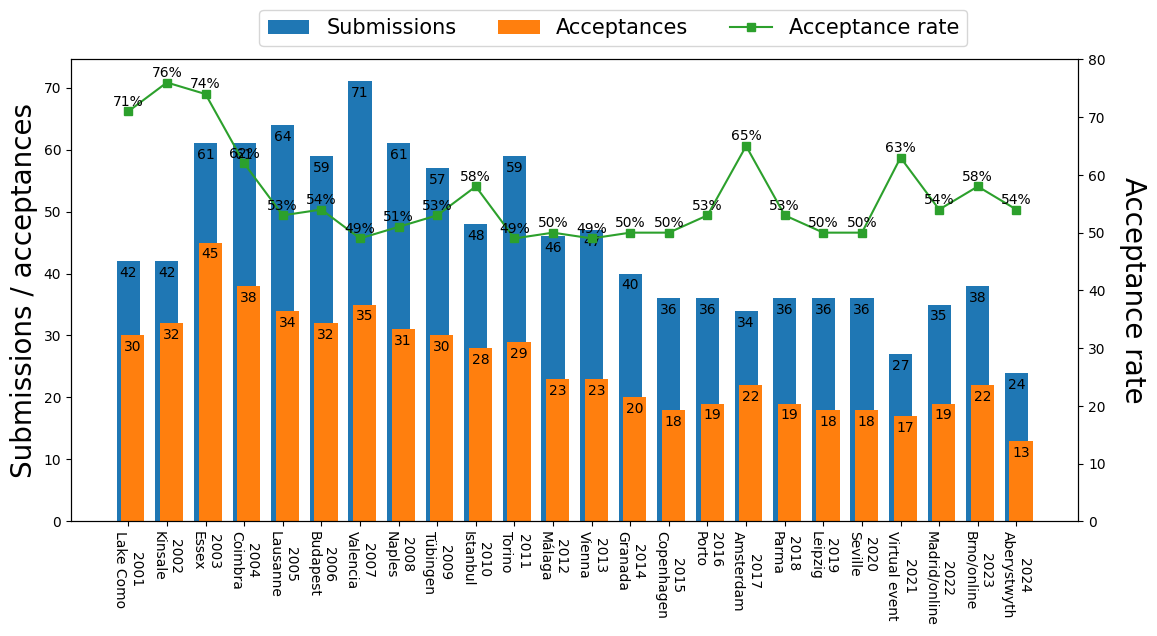
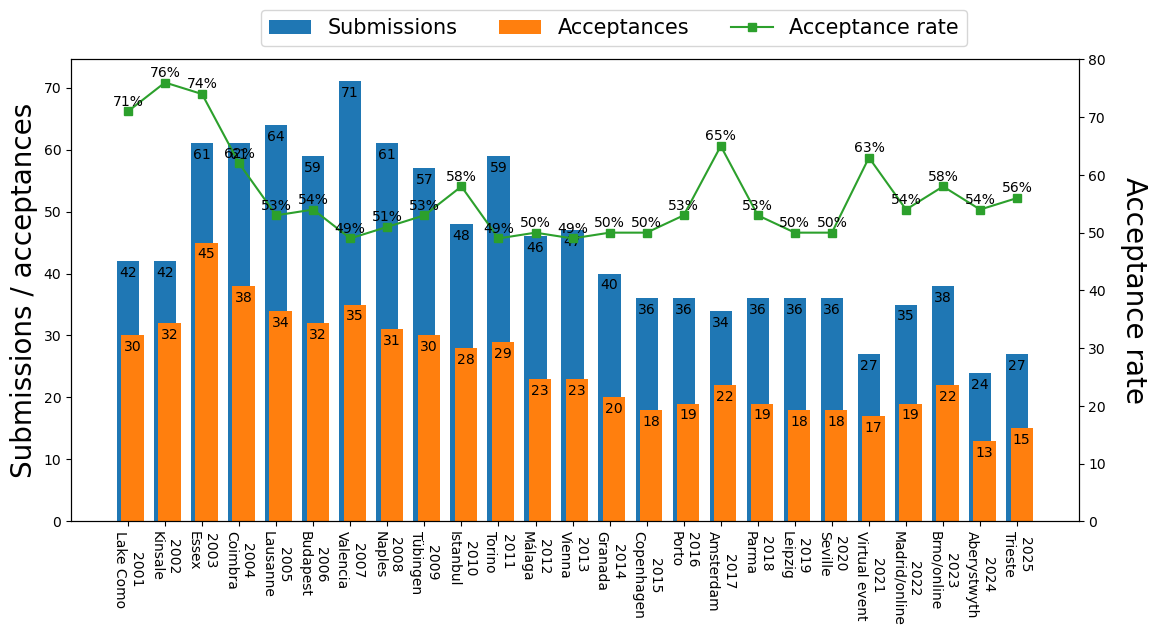
update stats for evostar

diff --git a/index.md b/index.md
@@ -18,22 +18,19 @@ This web site provides statistics of acceptance rates of the main evolutionary c
     * [EvoMUSART: International Conference on Artificial Intelligence in Music, Sound, Art and Design](#evomusart)
     * [EvoApplications: International Conference on the Applications of Evolutionary Computation](#evoapp)
 
-
-
-
 ## <a id="nextconf" href="#nextconf">Upcoming conferences</a> 
 
 The date format in the following table is ``Year.Month.Day``. The submission deadline for each conference is based on its first CFP. 
 
 |  Conference  | Venue | Start date | End date | Abstract submission | Paper submission |
 | ---- | ---- | ---- | ---- | ---- | ---- |
-| [Evostar 2025](https://www.evostar.org/2025/) | Trieste, Italy | 2025.04.23 | 2025.04.25 |   | 2024.11.01 |
 | [CEC 2025](https://www.cec2025.org/) | Hangzhou,China | 2025.07.08 | 2025.07.12 |  |2025.01.15|
 | [GECCO 2025](https://gecco-2025.sigevo.org/) | Málaga, Spain | 2025.07.14 | 2025.07.18 | 2025.01.22  | 2025.01.29 |
 | [FOGA 2025](https://naco.liacs.nl/foga2025/) | Leiden, Netherlands | 2025.08.27 | 2025.08.29 |   | 2025.05.01 |
+| Evostar 2026 | Somewhere in Europe | 2026.04.?? | 2026.04.?? |   | 2025.1?.?? |
+| [WCCI 2026](https://attend.ieee.org/wcci-2026/) | Maastricht, Netherlands | 2026.06.21 | 2026.06.26 |  |2026.01.??|
 | PPSN 2026 | Somewhere in Europe | 2026.09.?? | 2026.09.?? |   | 2026.0?.?? |
 | EMO 2027 | Somewhere in this world | 2027.03.?? | 2027.03.?? |   | 2026.??.?? |
-
 
 ## <a id="coreranks" href="#coreranks">CORE2021 rankings</a> 
 
@@ -273,6 +270,7 @@ EuroGP is held as part of EvoStar, which consists of EuroGP, EvoApplications, Ev
 | 2022 | 35         | 19         | 54%             | Madrid/online    | 
 | 2023 | 38         | 22         | 58%             | Brno/online    | 
 | 2024 | 24         | 13         | 54%             | Aberystwyth    | 
+| 2025 | 27         | 15         | 56%             | Trieste    | 
 
 ![EuroGP](fig/stats_eurogp.png) 
 
@@ -310,6 +308,7 @@ EvoCOP is held as part of EvoStar, which consists of EuroGP, EvoApplications, Ev
 | 2022 | 28         | 13         | 46%             | Madrid/online    |
 | 2023 | 32         | 15         | 47%             | Brno/online    |
 | 2024 | 28         | 12         | 43%             | Aberystwyth    | 
+| 2025 | 43         | 16         | 37%             | Trieste    | 
 
 ![EvoCOP](fig/stats_evocop.png) 
 
@@ -336,6 +335,7 @@ EvoMUSART is held as part of EvoStar, which consists of EuroGP, EvoApplications,
 | 2022 | 66         | 26         | 39%             | Madrid/online    |
 | 2023 | 55         | 27         | 49%             | Brno/online    |
 | 2024 | 55         | 25         | 45%             | Aberystwyth    | 
+| 2025 | 52         | 28         | 54%             | Trieste    | 
 
 ![EvoMUSART](fig/stats_evomusart.png) 
 
@@ -365,6 +365,7 @@ EvoApplications is held as part of EvoStar, which consists of EuroGP, EvoApplica
 | 2022 | 67         | 46         | 69%             | Madrid/online    |
 | 2023 | 201         | 51         | 25%             | Brno/online    |
 | 2024 | 77         | 33         | 43%             | Aberystwyth    | 
+| 2025 | 104         | 68         | 65%             | Trieste    | 
 
 ![EvoApplications](fig/stats_evoapp.png) 
 
